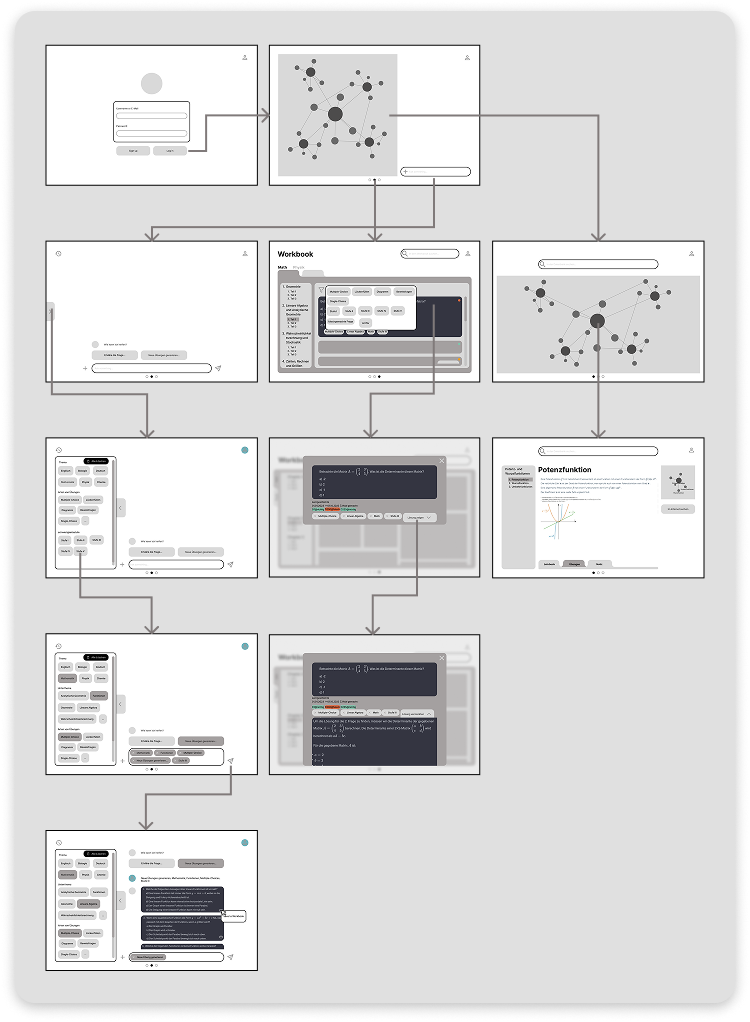
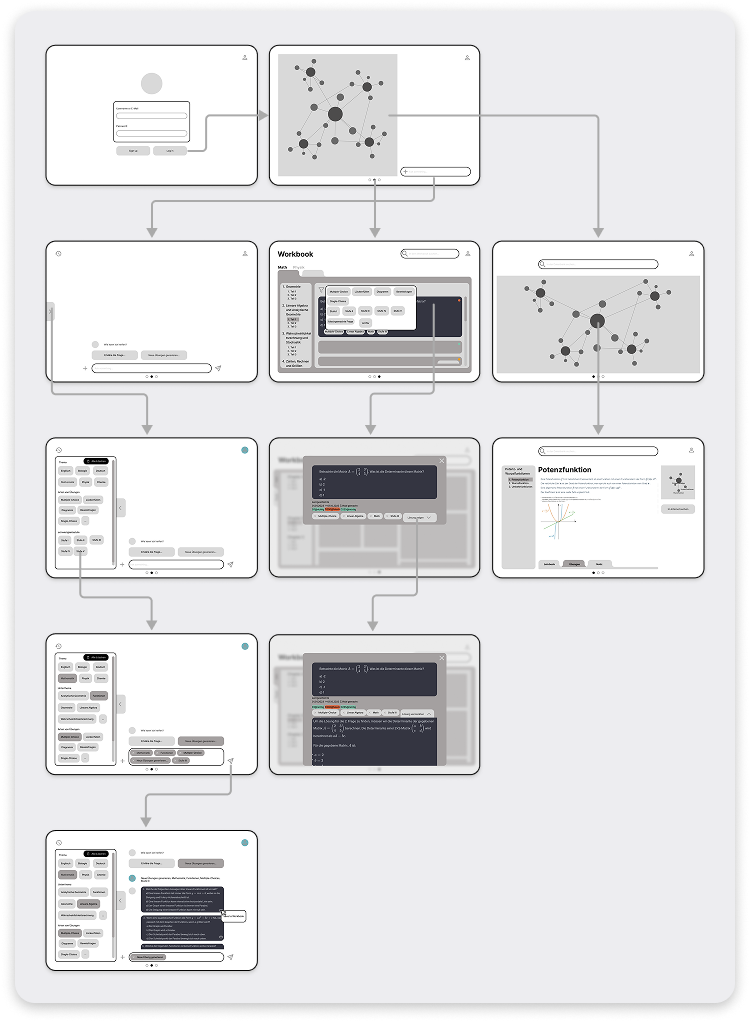
Study Buddy: improve visual presentation and copy
- Key Screens images now full-width stacked for better visibility
- Live Demo section highlights Vibe Coding and Claude Code
- Add Zugangscode to Reflexion section link
- Replace wireframes.png with refined version (rounded corners, updated bg color, cleaner arrows)

diff --git a/study-buddy.html b/study-buddy.html
@@ -109,8 +109,8 @@
     }
     .keyscreen-images {
         display: grid;
-        grid-template-columns: 1fr 1fr;
-        gap: 20px;
+        grid-template-columns: 1fr;
+        gap: 30px;
         margin-top: 20px;
     }
     .keyscreen-images img {
@@ -205,7 +205,7 @@
             <h2 class="section-title">Live<br>Demo</h2>
         </div>
         <div class="section-body">
-            <p>Ein funktionsfähiger Prototyp – entwickelt mit Claude Code (Anthropic) als Mensch-KI-Kollaboration. Die Anwendung demonstriert die zentralen Funktionen des Konzepts: KI-Chat, Workbook und Wissensnetz.</p>
+            <p>Ein funktionsfähiger Prototyp – entwickelt via <strong>Vibe Coding</strong> mit <strong>Claude Code (Anthropic)</strong> als Mensch-KI-Kollaboration. Die Anwendung demonstriert die zentralen Funktionen des Konzepts: KI-Chat, Workbook und Wissensnetz.</p>
             <a href="https://study-buddy-0m3m.onrender.com" target="_blank" rel="noopener noreferrer" class="demo-link">Study Buddy ausprobieren ↗</a>
             <span class="demo-code">Zugangscode: studybuddy2026</span>
         </div>
@@ -381,7 +381,7 @@
         </div>
         <div class="section-body">
             <p>Die Konzeption von Study Buddy zeigt, wie KI-basierte Systeme die Struktur und Nutzung von Lernmaterialien transformieren können: weg von linearer Informationsvermittlung hin zu vernetzten, individualisierten Lernprozessen.<br>
-            Um das Konzept in die Praxis zu überführen, wurde ein funktionsfähiger MVP entwickelt – als Mensch-KI-Kollaboration mit Claude Code (Anthropic). Der Prototyp ist <a href="https://study-buddy-0m3m.onrender.com" target="_blank" rel="noopener noreferrer">online erreichbar</a> und demonstriert die zentralen Interaktionen des Systems.</p>
+            Um das Konzept in die Praxis zu überführen, wurde ein funktionsfähiger MVP entwickelt – als Mensch-KI-Kollaboration mit Claude Code (Anthropic). Der Prototyp ist <a href="https://study-buddy-0m3m.onrender.com" target="_blank" rel="noopener noreferrer">online erreichbar</a> (Zugangscode: studybuddy2026) und demonstriert die zentralen Interaktionen des Systems.</p>
             
             <p>Langfristig bieten sich Erweiterungen an in Richtung:</p>
             <ul>
